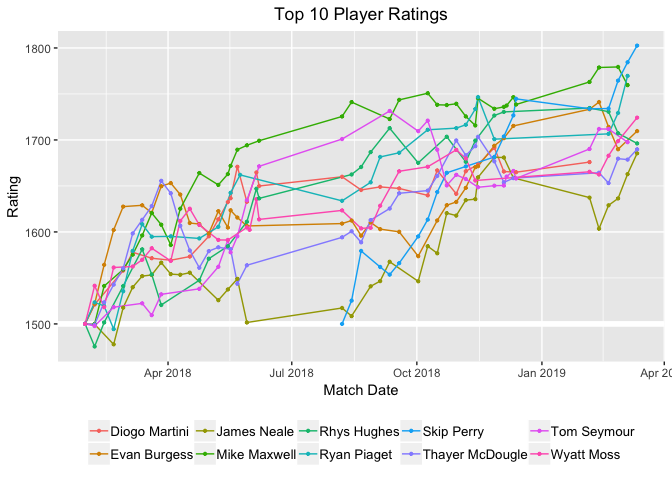
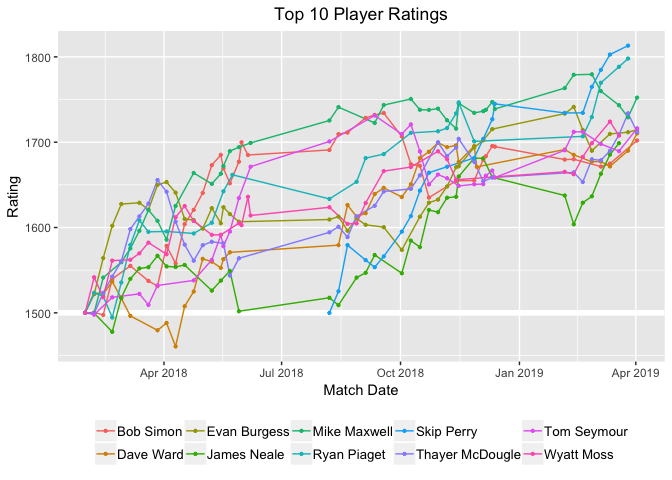
progress

diff --git a/05_analysis.md b/05_analysis.md
@@ -53,12 +53,6 @@ win_loss_record <- function(player_of_interest) {
 #win_loss_record(player_of_interest = "Mike Maxwell")
 #player_matches_and_ratings(player_of_interest = "Mike Maxwell")
 
-# Helper function to add team names to a data frame containing a column for player
-append_team_names <- function(df) {
-  df %>% 
-    full_join(players_by_team_19, by = "player")
-}
-
 # Helper functions to get a list of all the players in a team (ever, or just now)
 get_team_players <- function(team_name) {
   home_players <- 
@@ -96,6 +90,12 @@ get_current_team_players <- function(team_name) {
   unique(c(home_players, away_players))
 }
 
+# Helper function to add team names to a data frame containing a column for player
+append_team_names <- function(df) {
+  df %>% 
+    full_join(players_by_team_19, by = "player")
+}
+
 # Data frame of players and team names in Spring 2019 - helper for next helper function
 players_by_team_19 <- 
   bind_rows(
@@ -123,25 +123,26 @@ elo_ratings %>%
   append_team_names()
 ```
 
-    ## # A tibble: 327 x 3
+    ## # A tibble: 329 x 3
     ##    player          rating team                      
     ##    <chr>            <dbl> <chr>                     
-    ##  1 Skip Perry        1803 Tandy Tokers              
-    ##  2 Hector Ortega     1789 <NA>                      
-    ##  3 Ryan Piaget       1770 Clean Slate               
-    ##  4 Mike Maxwell      1760 Route 101 Rawhides        
-    ##  5 Wyatt Moss        1724 Naked Lunch Nice Rack     
-    ##  6 Evan Burgess      1710 Lucky Horseshoe Caballeros
-    ##  7 Tom Seymour       1698 Route 101 Rawhides        
-    ##  8 Andy Luong        1697 <NA>                      
-    ##  9 Rhys Hughes       1696 Golden Slate Warriors     
-    ## 10 Thayer McDougle   1690 Lucky Horseshoe Caballeros
-    ## # … with 317 more rows
+    ##  1 Skip Perry        1813 Tandy Tokers              
+    ##  2 Ryan Piaget       1798 Clean Slate               
+    ##  3 Hector Ortega     1789 <NA>                      
+    ##  4 Mike Maxwell      1752 Route 101 Rawhides        
+    ##  5 Tom Seymour       1716 Route 101 Rawhides        
+    ##  6 Evan Burgess      1715 Lucky Horseshoe Caballeros
+    ##  7 Thayer McDougle   1712 Lucky Horseshoe Caballeros
+    ##  8 Dave Ward         1710 Dovre & Out               
+    ##  9 Wyatt Moss        1708 Naked Lunch Nice Rack     
+    ## 10 Bob Simon         1702 Route 101 Rawhides        
+    ## # … with 319 more rows
 
 ``` r
 # Plot player ratings over time
 plot_player_ratings_by_group <- function(player_list, list_name) {
   map_dfr(player_list, player_matches_and_ratings) %>% 
+    #filter(match_date > "2018-12-11") %>% 
     group_by(match_date, player) %>% 
     slice(n()) %>% 
     ggplot(aes(x = match_date, y = new_rating, group = player, color = player)) +
@@ -244,21 +245,21 @@ ratings_changes <-
 ratings_changes
 ```
 
-    ## # A tibble: 211 x 6
-    ## # Groups:   player [211]
-    ##    player         initial final  diff new_old    team                    
-    ##    <chr>            <dbl> <dbl> <dbl> <chr>      <chr>                   
-    ##  1 Jon Williams     1500  1614. 114.  New player Cafe Ballbusters        
-    ##  2 Tae Yim          1500  1609. 109.  New player Cafe 2 for 1's          
-    ##  3 Erik Proctor     1377. 1473.  95.4 Old player Cafe Cafaholics         
-    ##  4 Troy Brunet      1361. 1453.  91.8 Old player Hole in the Wall Bangers
-    ##  5 Darrell Haslip   1570. 1657.  87.0 Old player Smoke & Rumors          
-    ##  6 Justin Taylor    1508. 1594.  85.6 Old player Mixfits                 
-    ##  7 Rene Denis       1564. 1649.  84.7 Old player Smoke & Rumors          
-    ##  8 Jason Rogers     1511. 1591.  79.9 Old player Clean Slate             
-    ##  9 Bob Rice         1500  1573.  72.8 New player Cafe Cafaholics         
-    ## 10 David Norris     1452. 1521.  68.9 Old player House of Ginger         
-    ## # … with 201 more rows
+    ## # A tibble: 213 x 6
+    ## # Groups:   player [213]
+    ##    player           initial final  diff new_old    team                    
+    ##    <chr>              <dbl> <dbl> <dbl> <chr>      <chr>                   
+    ##  1 Jon Williams       1500  1654. 154.  New player Cafe Ballbusters        
+    ##  2 Nick Lansdown      1558. 1696. 138.  Old player Lucky Horseshoe Caballe…
+    ##  3 Tae Yim            1500  1618. 118.  New player Cafe 2 for 1's          
+    ##  4 John McNulty       1371. 1487. 115.  Old player Lone Star Longhorns     
+    ##  5 Mathieu Gugliel…   1406. 1511. 105.  Old player Tandy Tokers            
+    ##  6 Mark Butler        1469. 1570. 101.  Old player Golden Slate Warriors   
+    ##  7 Ryan Piaget        1701. 1798.  97.0 Old player Clean Slate             
+    ##  8 Troy Brunet        1361. 1455.  93.7 Old player Hole in the Wall Bangers
+    ##  9 Julien Roeser      1457. 1548.  90.4 Old player Lucky Horseshoe Glue Fa…
+    ## 10 Justin Taylor      1509. 1599.  90.4 Old player Mixfits                 
+    ## # … with 203 more rows
 
 ``` r
 # Data frame of all team names for all seasons
